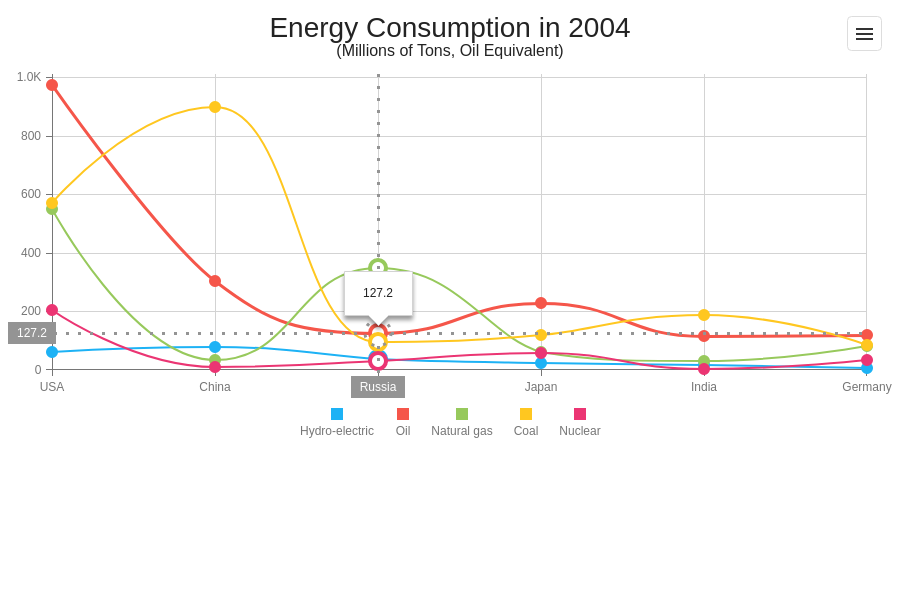
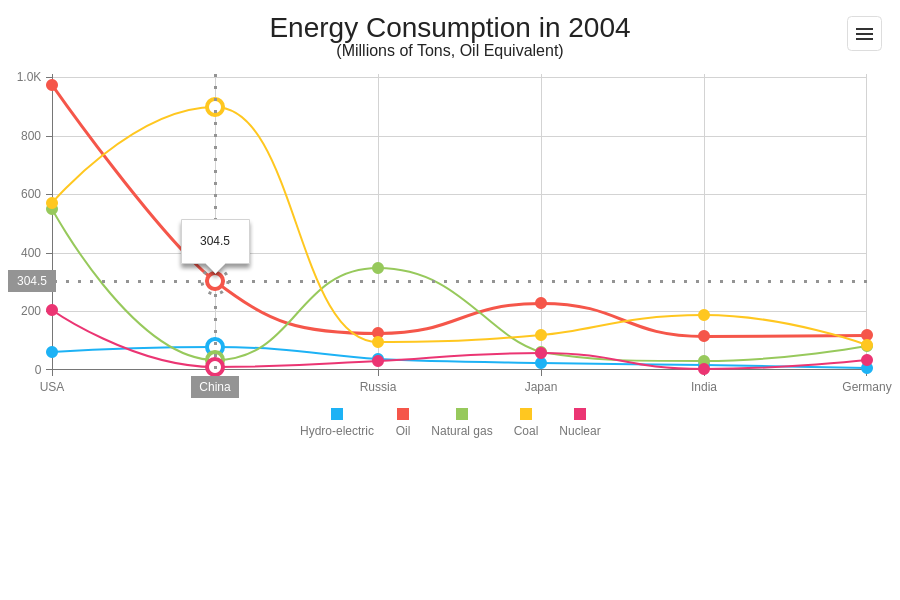
Chart & Dialogs: get rid of testcafe warnings in visual tests (#2494)

diff --git a/JSDemos/Demos/List/ListSelection/Angular/app/app.component.html b/JSDemos/Demos/List/ListSelection/Angular/app/app.component.html
@@ -5,7 +5,7 @@
       [dataSource]="tasks"
       [height]="400"
       [selectionMode]="selectionModeValue"
-      [selectAllMode]="selectAllModeVlaue"
+      [selectAllMode]="selectAllModeValue"
       [showSelectionControls]="true"
       [selectedItemKeys]="[]"
     ></dx-list>
@@ -28,7 +28,7 @@
       <span>Select All Mode</span>
       <dx-select-box
         [items]="['page', 'allPages']"
-        [(value)]="selectAllModeVlaue"
+        [(value)]="selectAllModeValue"
       >
       </dx-select-box>
     </div>

diff --git a/testing/widgets/common/DialogsAndNotificationsOverview.test.js b/testing/widgets/common/DialogsAndNotificationsOverview.test.js
@@ -16,7 +16,7 @@ runManualTest('Common', 'DialogsAndNotificationsOverview', ['jQuery', 'React', '
   test('DialogsAndNotificationsOverview', async (t) => {
     const { takeScreenshot, compareResults } = createScreenshotsComparer(t);
 
-    await t.click($(`.${IMAGES_CONTAINER_CLASS} .${ITEM_CONTENT_CLASS} img`));
+    await t.click($(`.${IMAGES_CONTAINER_CLASS} .${ITEM_CONTENT_CLASS}`));
     await takeScreenshot('common_dialogs_and_notifications_overview_popup.png');
 
     await t

diff --git a/testing/widgets/charts/Crosshair.test.js b/testing/widgets/charts/Crosshair.test.js
@@ -13,7 +13,7 @@ runManualTest('Charts', 'Crosshair', ['jQuery', 'React', 'Vue', 'Angular'], (tes
   test('Chart.Crosshair', async (t) => {
     const { takeScreenshot, compareResults } = createScreenshotsComparer(t);
 
-    await t.hover($('.dxc-series').nth(1).find('circle').nth(2));
+    await t.hover($('.dxc-series').nth(1).find('circle').nth(1));
     await takeScreenshot('charts_crosshair.png');
 
     await t

diff --git a/JSDemos/Demos/List/ListSelection/Angular/app/app.component.ts b/JSDemos/Demos/List/ListSelection/Angular/app/app.component.ts
@@ -21,7 +21,7 @@ if (!/localhost/.test(document.location.host)) {
 export class AppComponent {
   tasks: DataSource;
 
-  selectAllModeVlaue = 'page';
+  selectAllModeValue = 'page';
 
   selectionModeValue = 'all';
 
